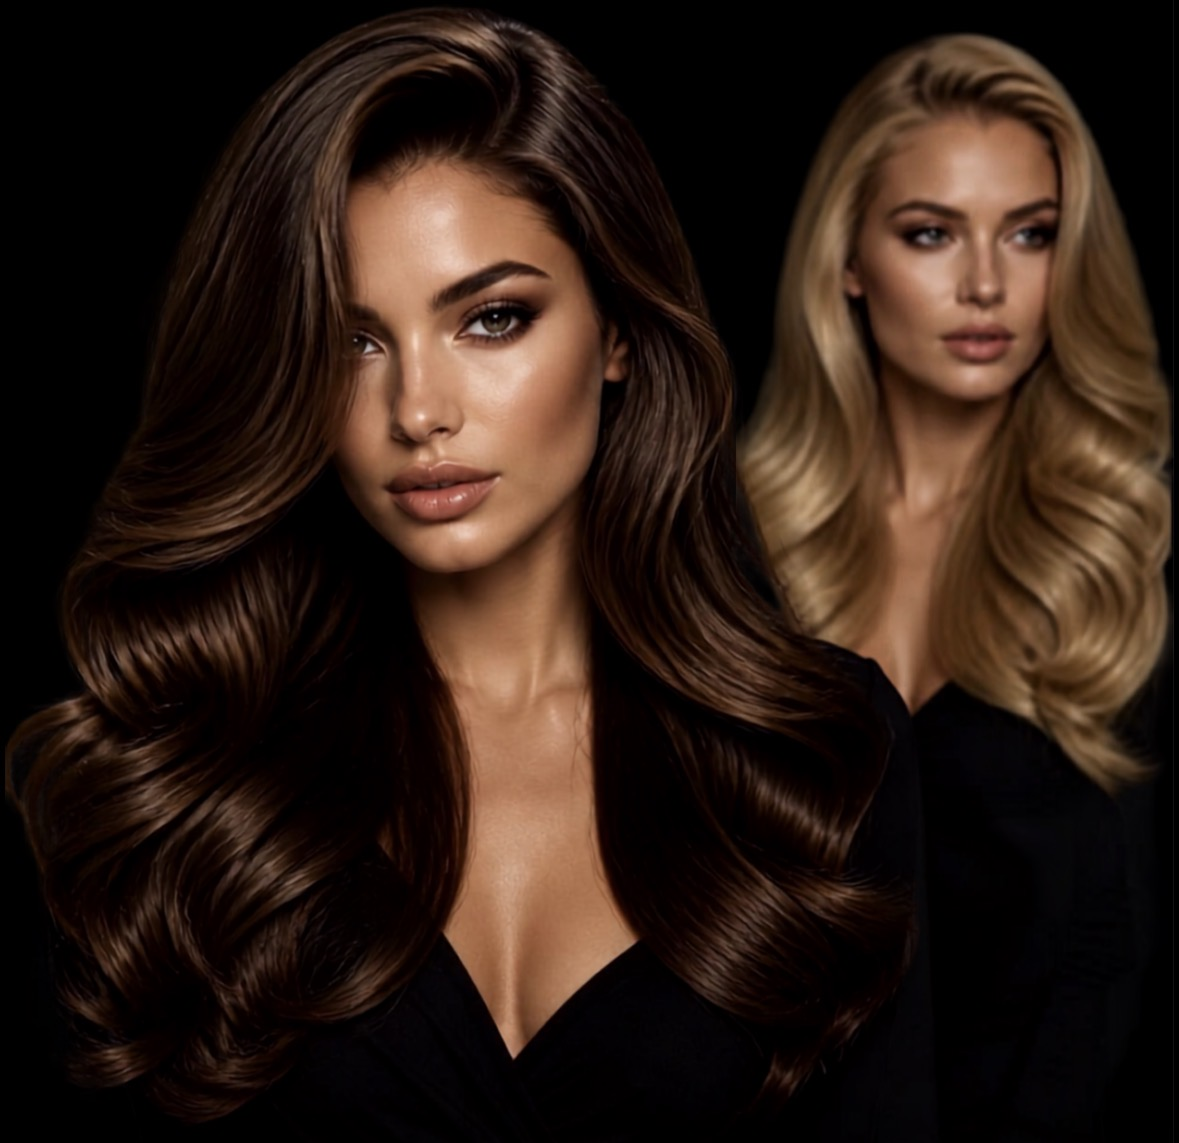
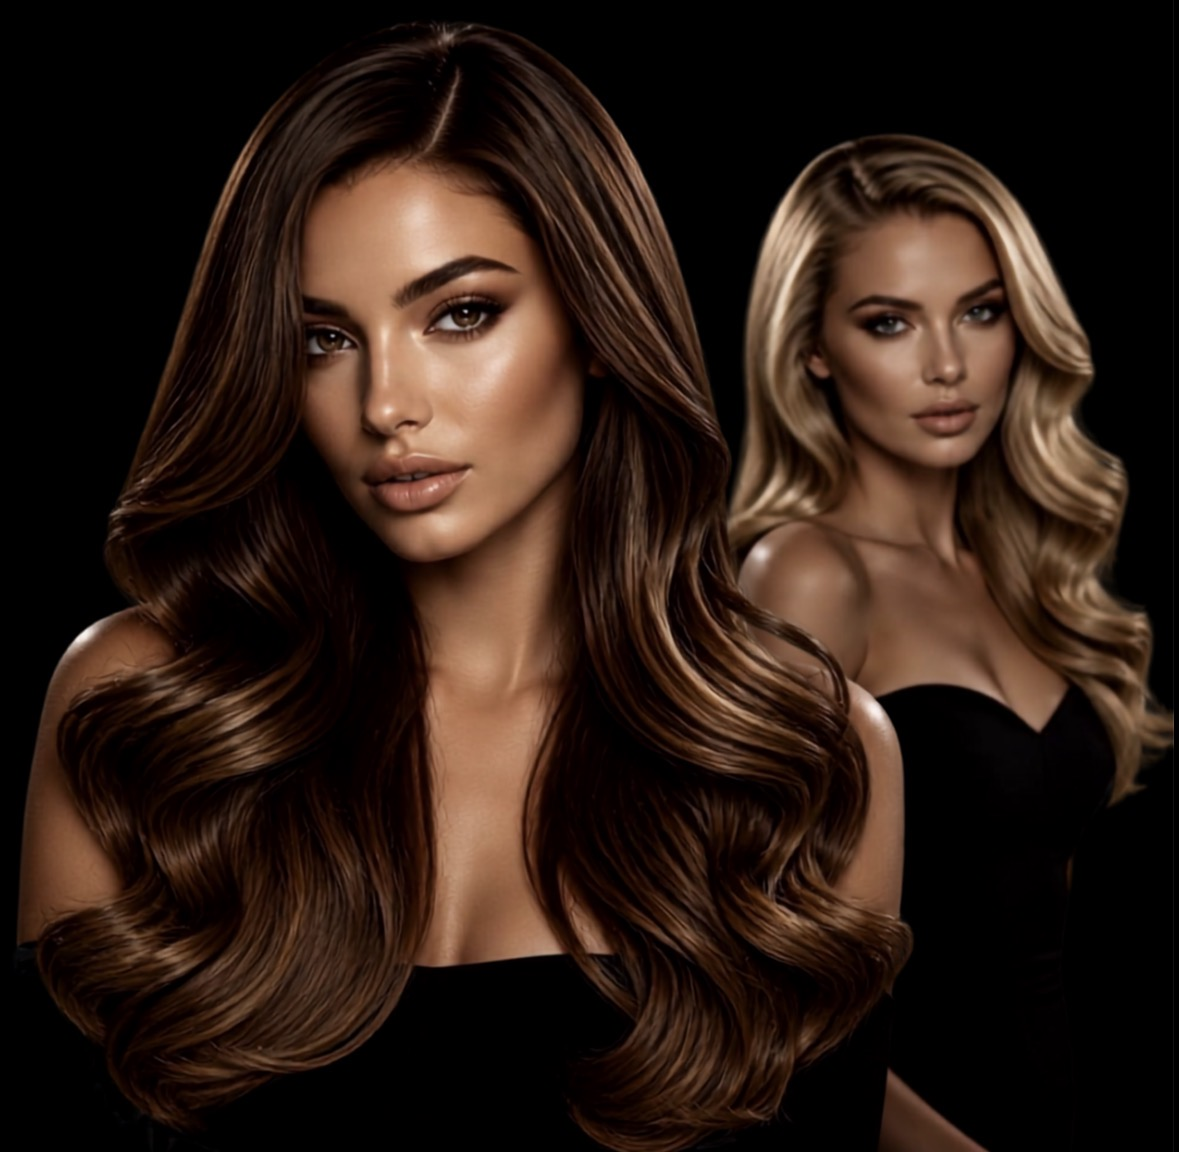
Swap Velvet/Elan companion photos; bump image cache version

diff --git a/lookbook.html b/lookbook.html
@@ -322,7 +322,7 @@
 
           <article class="lookbook-card">
             <div class="card-photo">
-              <img src="assets/service-velvet-companion.jpg?v=r2" alt="Two models with long, glossy brunette and blonde waves" width="1179" height="1152" decoding="async">
+              <img src="assets/service-velvet-companion.jpg?v=r3" alt="Two models: a blonde model with long, glossy golden waves in the foreground and a brunette model behind her" width="1179" height="1152" decoding="async">
             </div>
             <div class="card-body">
               <span class="card-dek">Companion Experience</span>
@@ -339,7 +339,7 @@
 
           <article class="lookbook-card">
             <div class="card-photo">
-              <img src="assets/service-elan-companion.jpg?v=r2" alt="Two models with long, glossy brunette and blonde waves" width="1179" height="1143" decoding="async">
+              <img src="assets/service-elan-companion.jpg?v=r3" alt="Two models: a brunette model with long, cascading waves in the foreground and a blonde model behind her" width="1179" height="1143" decoding="async">
             </div>
             <div class="card-body">
               <span class="card-dek">Companion Experience</span>
